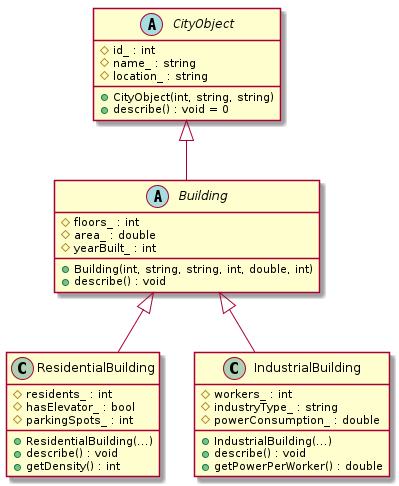
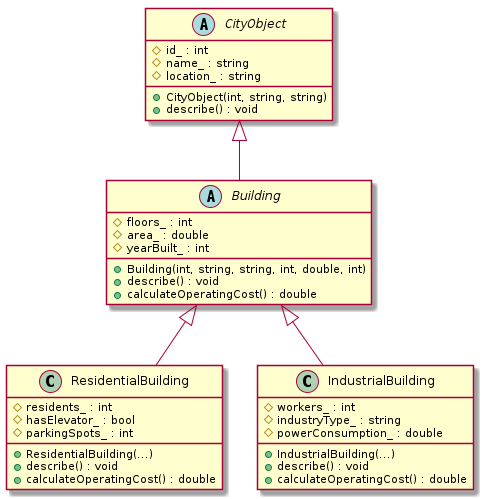
lab08 additions

Changed region(s): [[0.0, 0.0, 0.9925, 1.0]]

diff --git a/lab08/main.cpp b/lab08/main.cpp
@@ -7,9 +7,7 @@
 
 int main() {
     CityObject* objects[2];
-
-    Building b(2, "Office Building", "Downtown", 10, 2500.5, 2005);
-    b.describe();
+    Building* buildings[2];
 
     std::cout << "-" << std::endl;
 
@@ -27,7 +25,15 @@ int main() {
     for (int i = 0; i < 2; i++) {
     objects[i]->describe();
     }
-    std::cout << "------------------" << std::endl;
+
+    buildings[0] = &res;
+    buildings[1] = &ind;
+
+    for (auto b : buildings) {
+     std::cout << b->calculateOperatingCost() << std::endl;
+    }
+
+    std::cout << "-" << std::endl;
 
     std::cout << "Size of CityObject: " << sizeof(CityObject) << std::endl;
     std::cout << "Size of Building: " << sizeof(Building) << std::endl;

diff --git a/lab08/private/IndustrialBuilding.cpp b/lab08/private/IndustrialBuilding.cpp
@@ -23,5 +23,9 @@ void IndustrialBuilding::describe() const {
     std::cout << "Industrial Building: " << name_
               << ", workers: " << workers_
               << ", industry: " << industryType_
-              << ", power: " << powerConsumption_ << std::endl;
+              << ", power: " << powerConsumption_ << std::endl;              
+}
+
+double IndustrialBuilding::calculateOperatingCost() const {
+    return powerConsumption_ * 0.75 + workers_ * 20;
 }

diff --git a/lab08/private/ResidentialBuilding.cpp b/lab08/private/ResidentialBuilding.cpp
@@ -25,3 +25,7 @@ void ResidentialBuilding::describe() const {
               << ", elevator: " << (hasElevator_ ? "yes" : "no")
               << ", parking spots: " << parkingSpots_ << std::endl;
 }
+
+double ResidentialBuilding::calculateOperatingCost() const {
+    return residents_ * 50 + parkingSpots_ * 10;
+}

diff --git a/lab08/public/IndustrialBuilding.hpp b/lab08/public/IndustrialBuilding.hpp
@@ -19,6 +19,7 @@ public:
     double getPowerConsumption() const;
 
     void describe() const override;
+    double calculateOperatingCost() const override;
 };
 
 #endif

diff --git a/lab08/public/ResidentialBuilding.hpp b/lab08/public/ResidentialBuilding.hpp
@@ -19,6 +19,7 @@ public:
     int getParkingSpots() const;
 
     void describe() const override;
+    double calculateOperatingCost() const override;
 };
 
 #endif

diff --git a/lab08/public/Building.hpp b/lab08/public/Building.hpp
@@ -18,6 +18,7 @@ public:
     int getYearBuilt() const;
 
     virtual void describe() const;
+    virtual double calculateOperatingCost() const = 0;
 };
 
 #endif

diff --git a/lab08/assets/Report.md b/lab08/assets/Report.md
@@ -133,6 +133,7 @@ public:
     int getYearBuilt() const;
 
     virtual void describe() const;
+    virtual double calculateOperatingCost() const = 0;
 };
 
 #endif
@@ -160,6 +161,7 @@ public:
     double getPowerConsumption() const;
 
     void describe() const override;
+    double calculateOperatingCost() const override;
 };
 
 #endif
@@ -187,6 +189,7 @@ public:
     int getParkingSpots() const;
 
     void describe() const override;
+    double calculateOperatingCost() const override;
 };
 
 #endif
